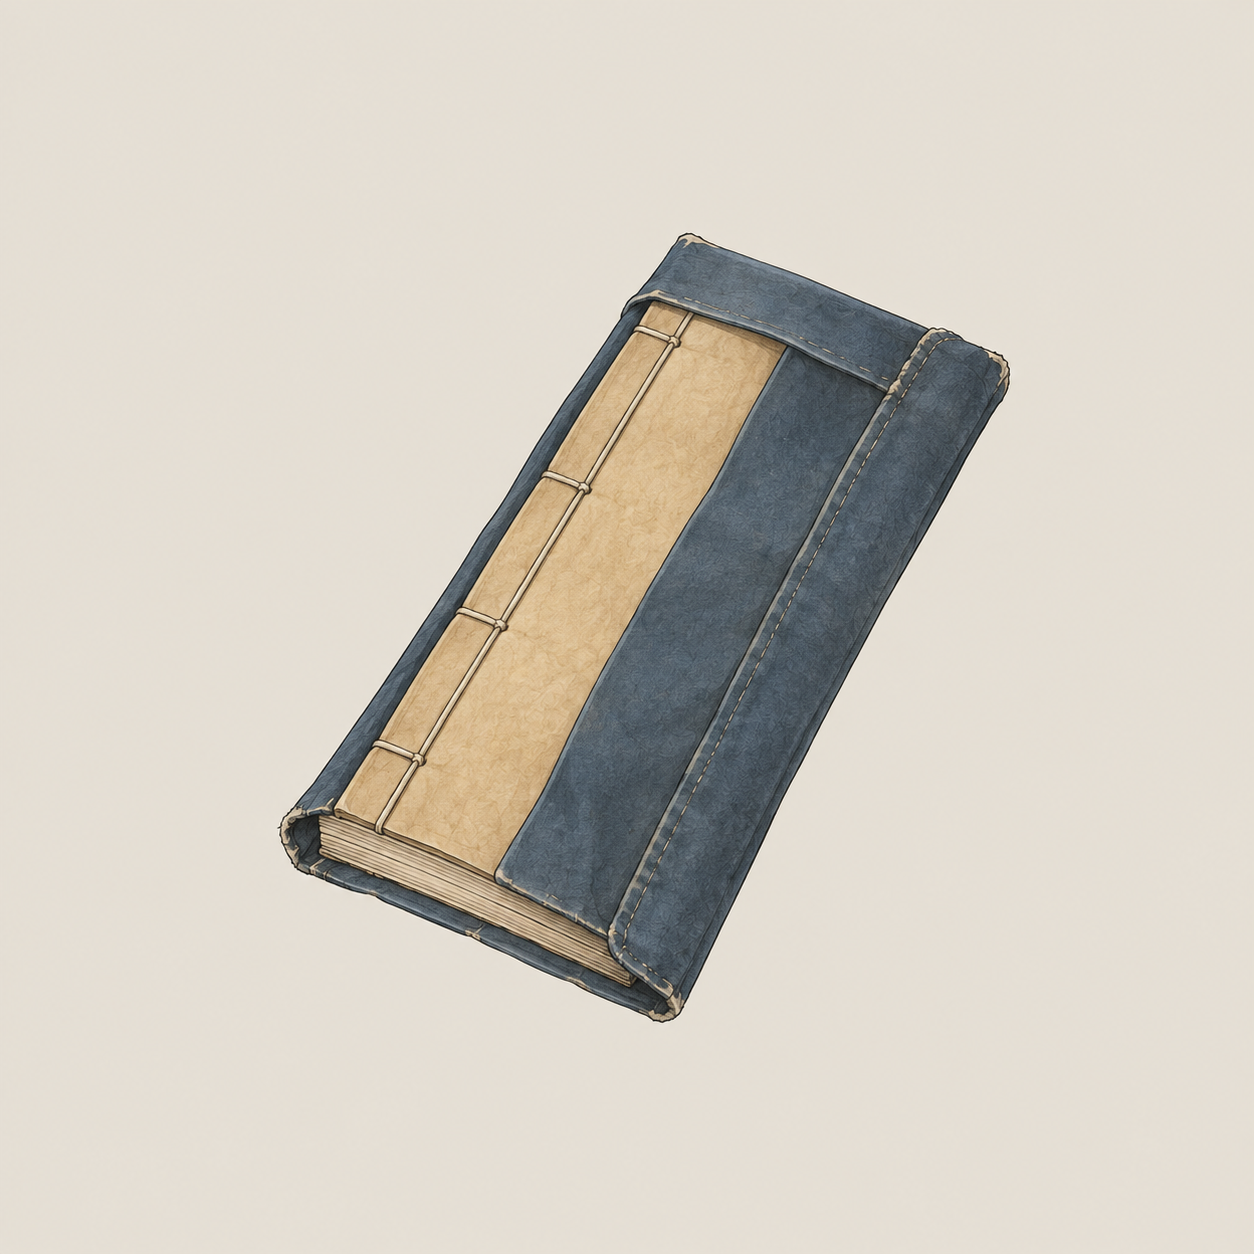
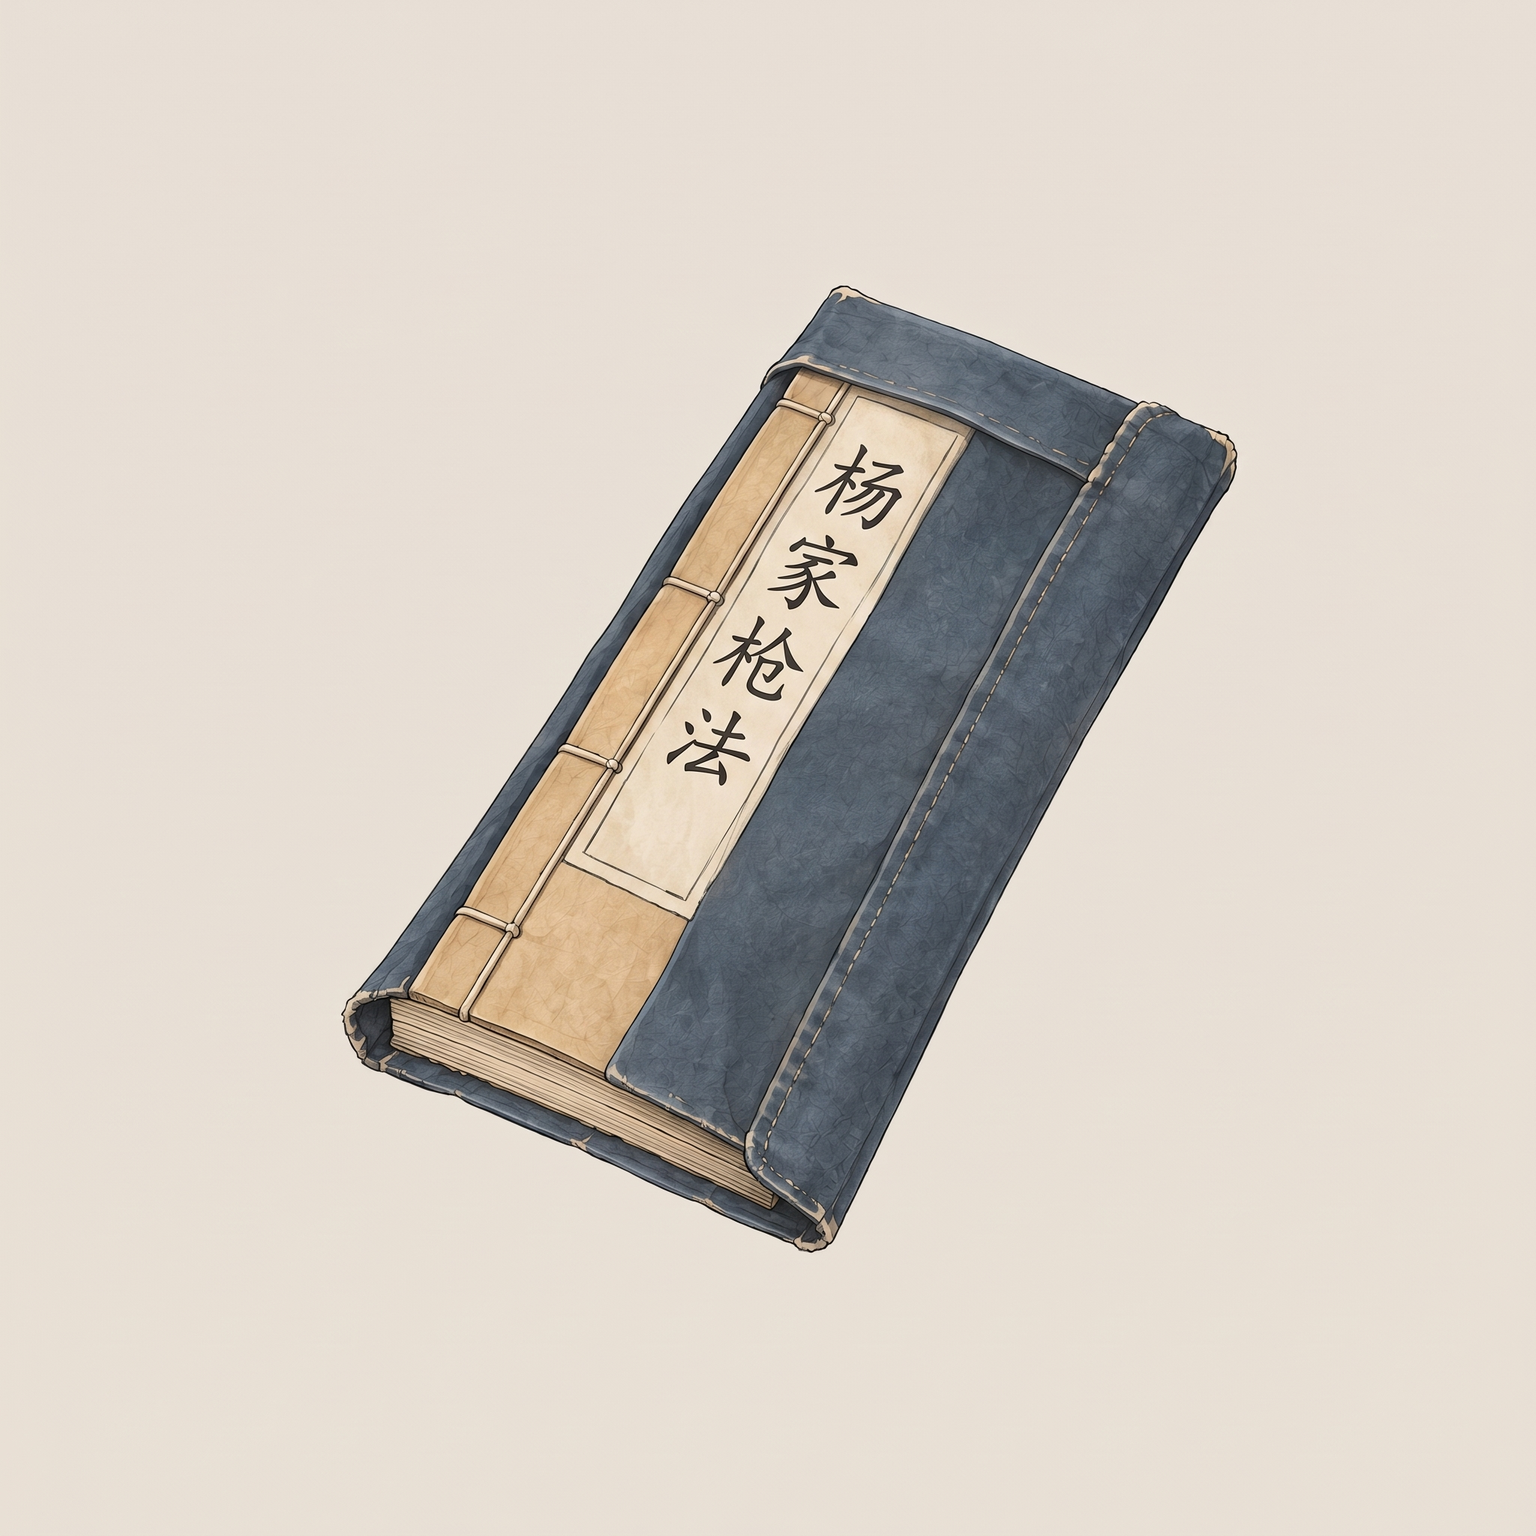
assets(gemini): it_miji_yangjiaqiangfa 杨家枪法遗谱

diff --git a/assets/default/prompts/INDEX.md b/assets/default/prompts/INDEX.md
@@ -3,7 +3,7 @@
 > 本文件由 `tools/agents/build_image_index.py` 生成，不要手改；改提示词就改各文件，改规程就改各组 `GUIDE.md`，然后重新生成。
 > 人物立绘另见 `characters/INDEX.md`（别的 agent 在出，不在本索引）。建筑套件与贴片已出齐，只列完成度。
 
-提示词 **627** 份：已入库 265、待出图 229、已通过（作者） 133。**待出图队列 229 行**（`python3 tools/agents/build_image_index.py --queue`）。
+提示词 **627** 份：已入库 266、待出图 229、已通过（作者） 132。**待出图队列 229 行**（`python3 tools/agents/build_image_index.py --queue`）。
 
 ## 出图 agent 怎么用
 
@@ -385,7 +385,7 @@
 | 113 | 猪肚 | `it_zhudu` | 黄 | 食材·肉 | 待出图 | [it_zhudu.md](items/food/it_zhudu.md) | template |
 | 114 | 猪肉 | `it_zhurou` | 黄 | 食材·肉 | 待出图 | [it_zhurou.md](items/food/it_zhurou.md) | template |
 
-### 武学秘籍（18）· 已入库 17、已通过（作者） 1
+### 武学秘籍（18）· 已入库 18
 
 （已全部入库。）
 
